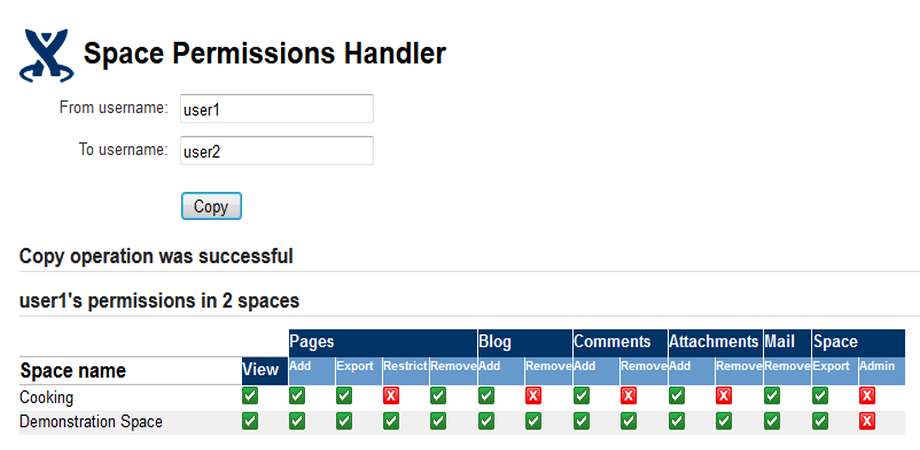
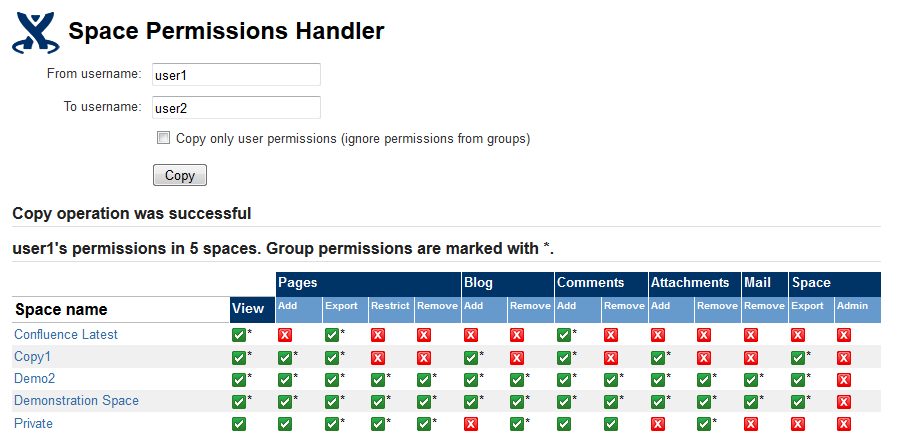
Screenshots updated
Removed TODOs from the code.
Updated: Plugin screenshots.

Changed region(s): [[0.0, 0.3867, 0.9978, 1.0], [0.0, 0.0297, 0.4989, 0.2677], [0.0935, 0.2975, 0.5924, 0.357]]

diff --git a/src/main/resources/js/admin.js b/src/main/resources/js/admin.js
@@ -121,8 +121,6 @@ function printPermissions(permissions) {
 			+ '" href="/confluence/spaces/spacepermissions.action?key='
 			+ permissions.spacePermissions[i].spaceKey + '">' 
 			+ permissions.spacePermissions[i].spaceName + '</a>' + '</td>';
-
-		//TODO: Add a symbol if the permission is not user permission
 		
 		html += printPermissionStatus(permissions.spacePermissions[i].permissions[0].permissionGranted, "viewspace", permissions.spacePermissions[i].permissions[0].userPermission);
 		html += printPermissionStatus(permissions.spacePermissions[i].permissions[1].permissionGranted, "createpage", permissions.spacePermissions[i].permissions[1].userPermission);
